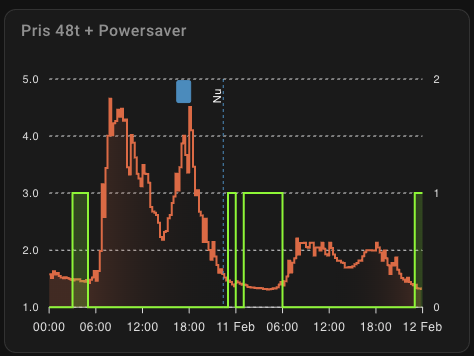
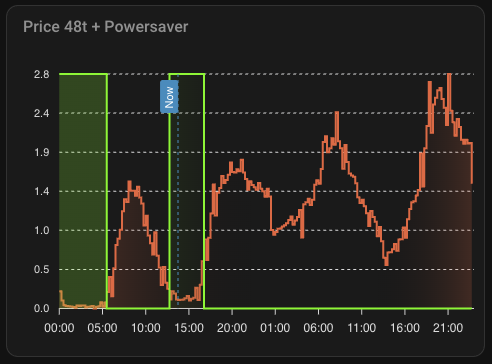
Fixed issue with ApexCharts example code.

diff --git a/README.md b/README.md
@@ -234,6 +234,16 @@ now:
 graph_span: 2d
 span:
   start: day
+yaxis:
+  - id: price
+    show: true
+  - id: usage
+    show: true
+    opposite: true
+  - id: powersaver
+    show: false
+    min: 0
+    max: 1
 apex_config:
   stroke:
     width: 2
@@ -254,24 +264,14 @@ apex_config:
   legend:
     show: false
   yaxis:
-    - id: price
-      show: true
-      decimalsInFloat: 1
+    - decimalsInFloat: 1
       floating: false
       forceNiceScale: true
-      extend_to: end
-    - id: usage
-      show: true
-      opposite: true
-      decimalsInFloat: 0
+    - decimalsInFloat: 0
       floating: false
       forceNiceScale: true
-      extend_to: end
-    - id: powersaver
-      show: false
-      decimalsInFloat: 0
+    - decimalsInFloat: 0
       floating: false
-      extend_to: now
 series:
   - entity: sensor.heater_power_saver_schedule
     yaxis_id: price
@@ -292,14 +292,13 @@ series:
         return [new Date(entry.time).getTime(), entry.status === "active" ? 1 : 0];
       });
     yaxis_id: powersaver
+    extend_to: now
     name: " "
     type: area
     color: rgb(0, 255, 0)
     opacity: 0.2
     stroke_width: 0
     curve: stepline
-    group_by:
-      func: min
     show:
       legend_value: false
       in_header: false
